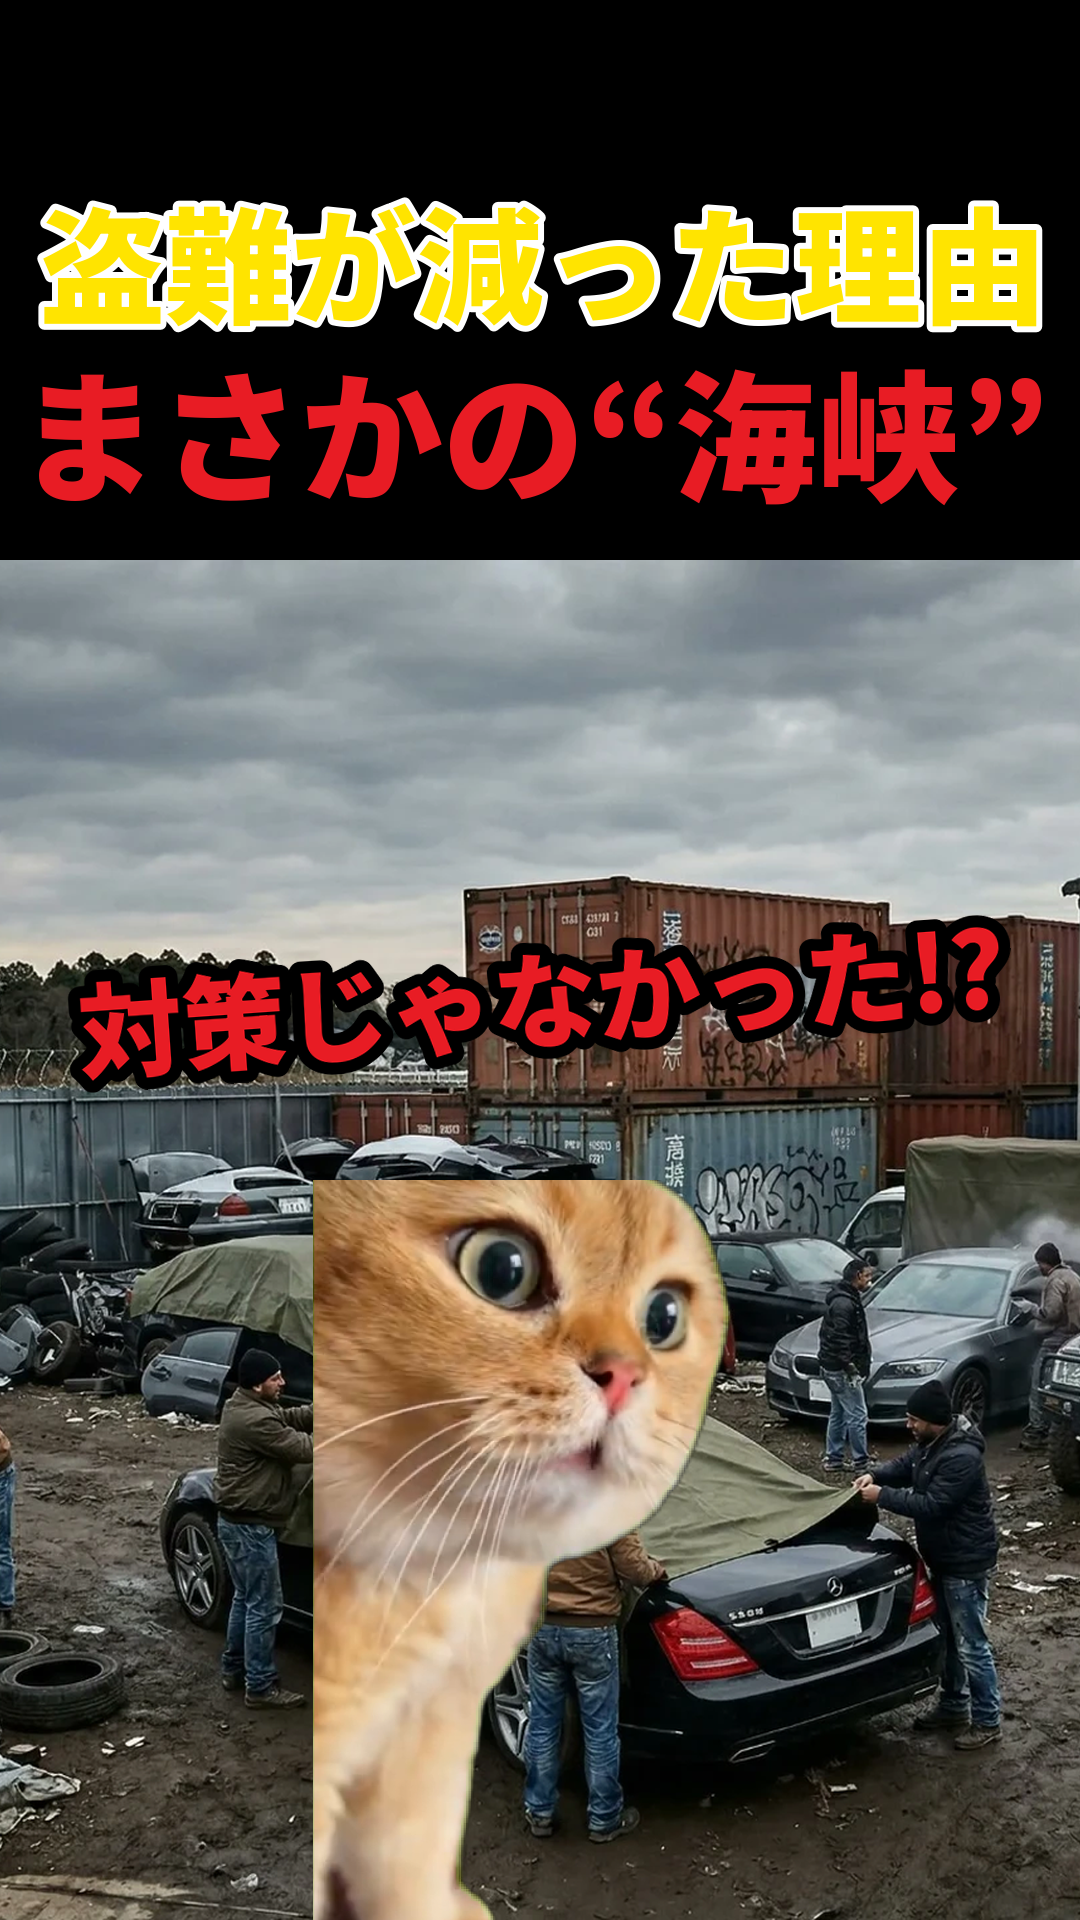
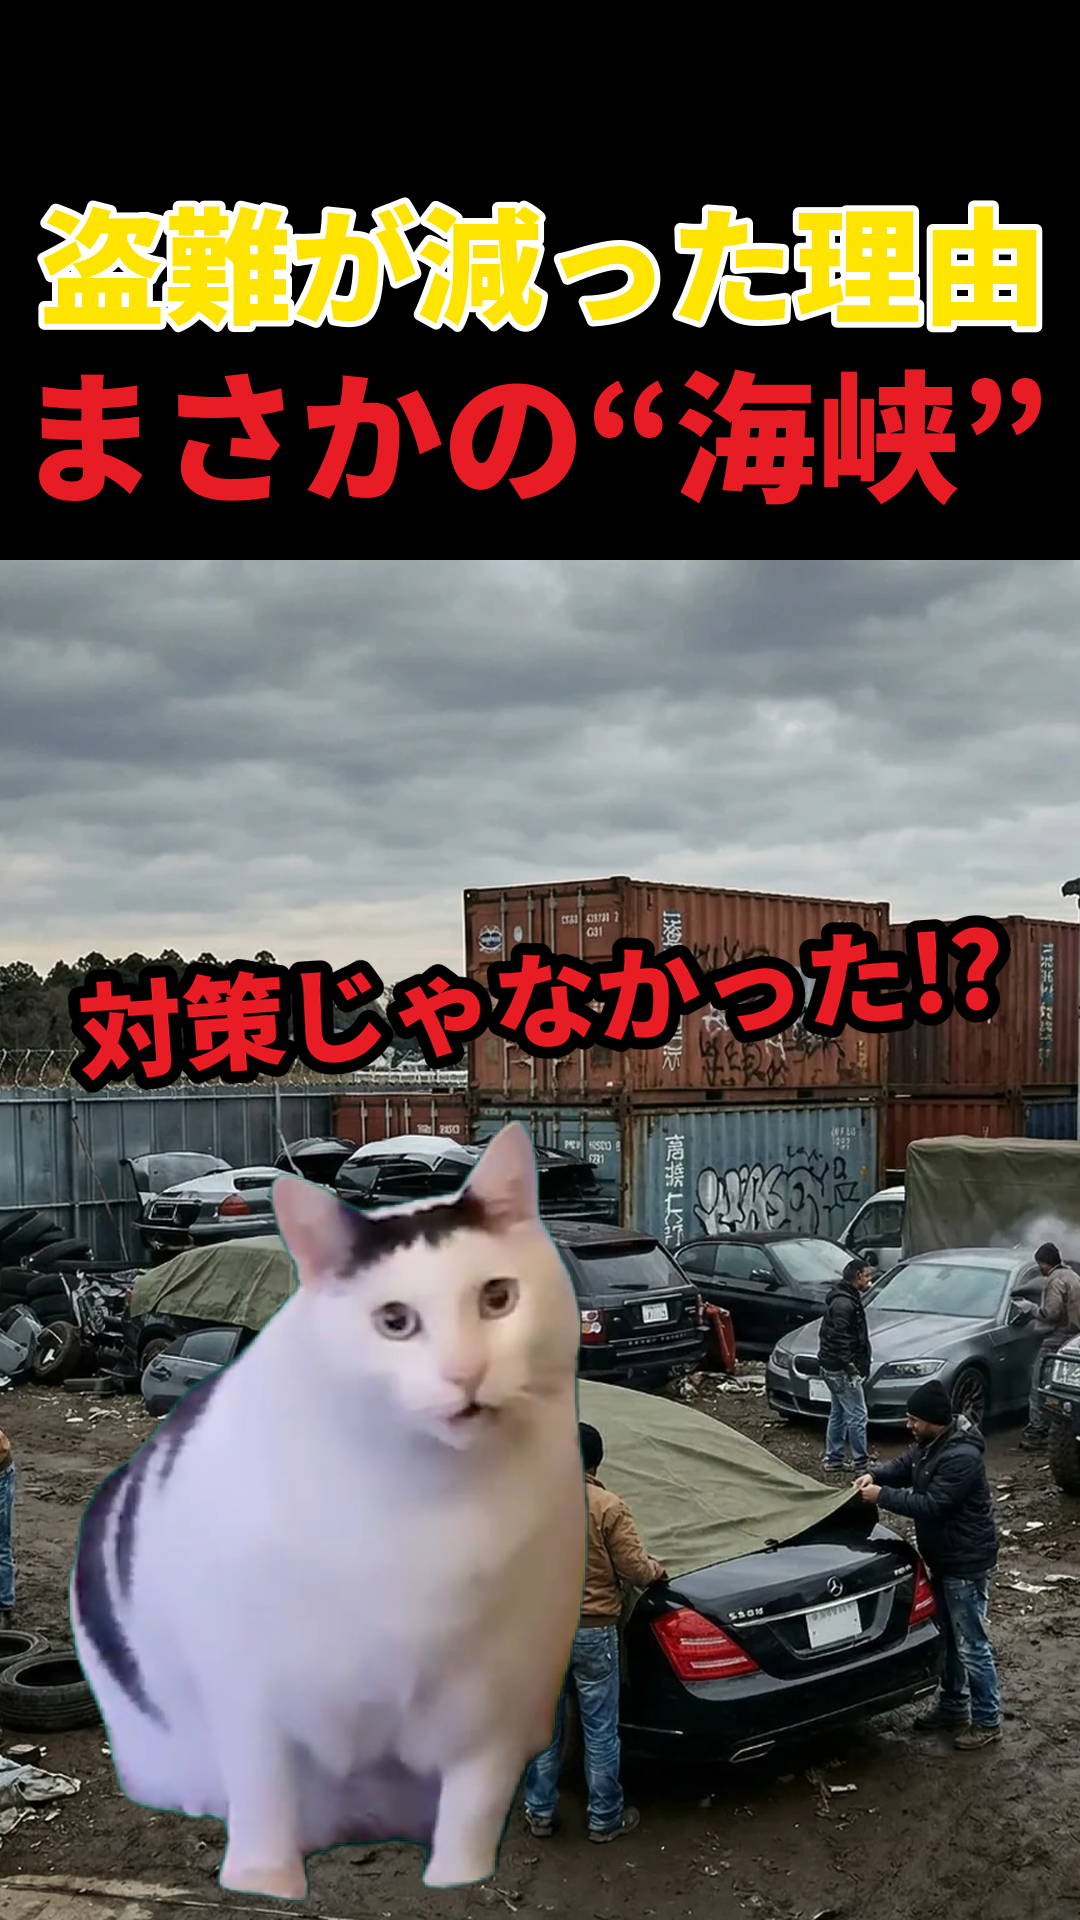
short_13b thumbnail: swap cat asset
Claude-Session: https://claude.ai/code/session_011g9CsrfFD5YswfNSvNDW39

Changed region(s): [[0.0611, 0.5625, 0.6722, 1.0]]

diff --git a/catmeme/make_thumb_short_ref.py b/catmeme/make_thumb_short_ref.py
@@ -127,7 +127,7 @@ def yard():
          "bg41_yard_scrap", [("surprise_big_pupils_cat", 0.6, 250, 1900, 620, False), ("sad_banana_cat_cry", 1.0, 830, 1880, 600, True)],
          "300台なのに!?", "b", cap_y=900, stroke1=WHITE)
     make("short_13b_yard_ref.png", "盗難が減った理由", YELLOW, "まさかの“海峡”", RED,
-         "bg42_yard_raid_ai", [("rage_talking_cat", 1.0, 540, 1960, 780, False)],
+         "bg42_yard_raid_ai", [("huh_huh_cat", 1.0, 560, 1960, 900, False)],
          "対策じゃなかった!?", "b", cap_y=1000, stroke1=WHITE)
 
 
